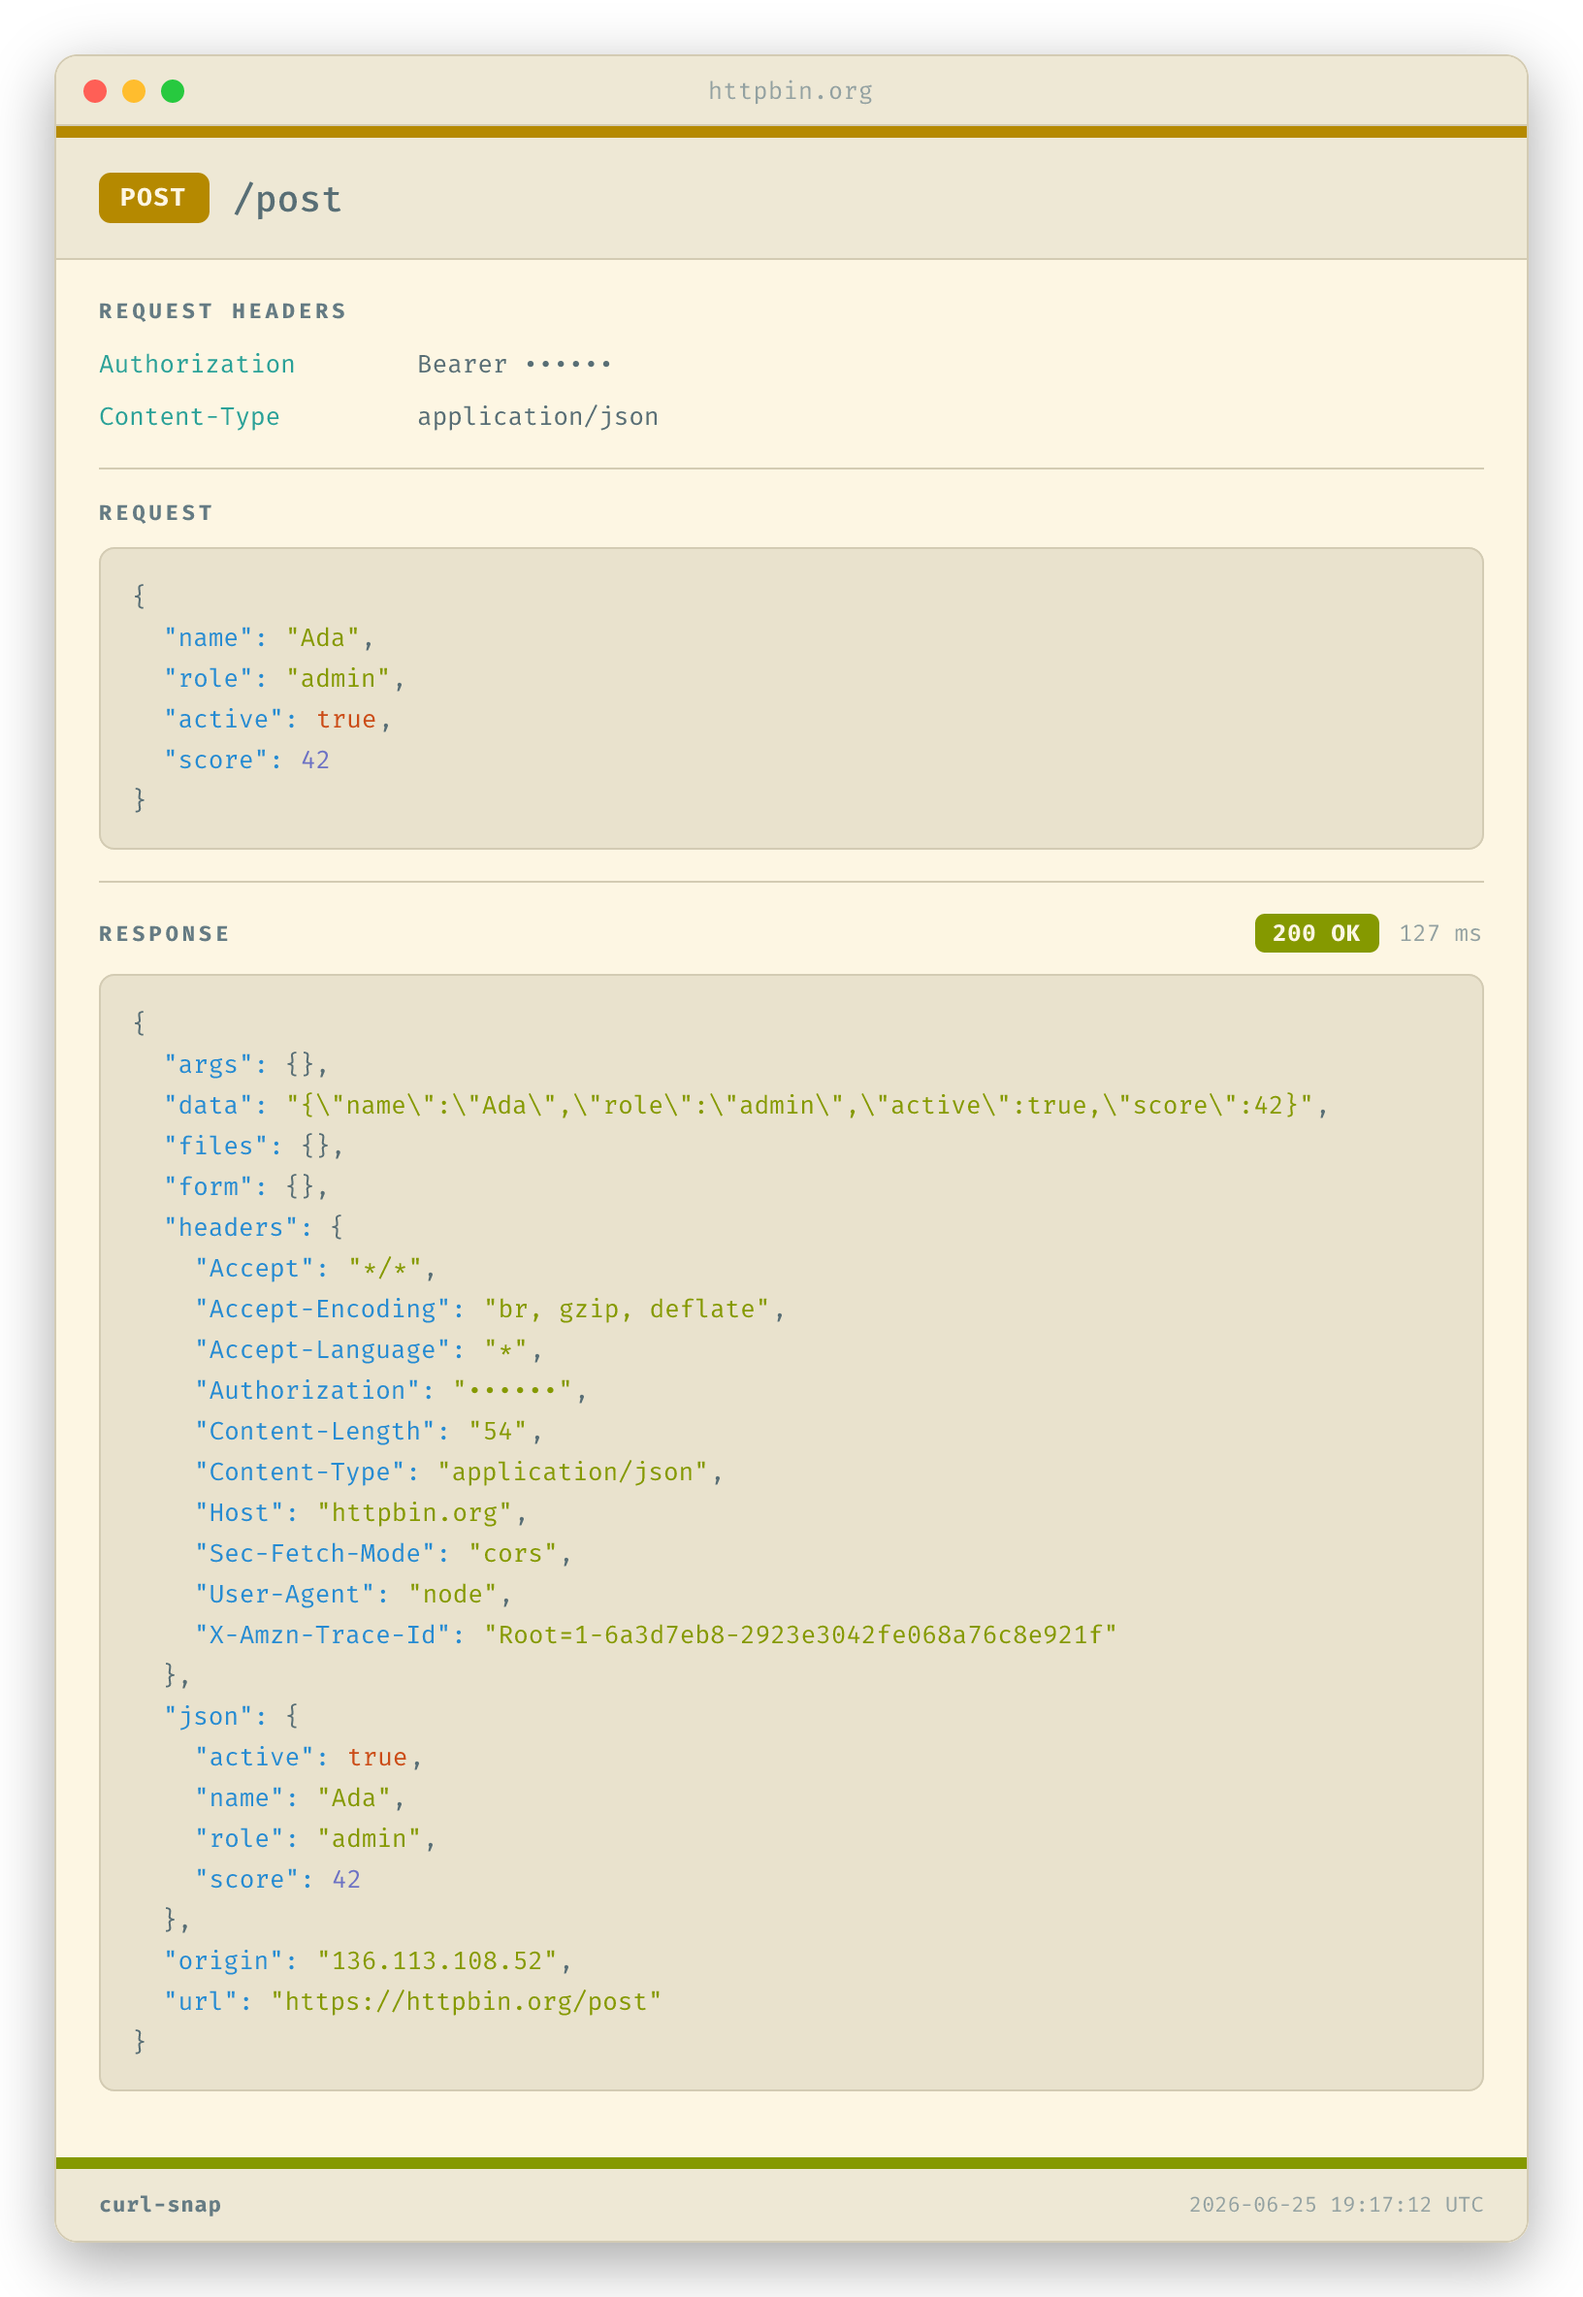
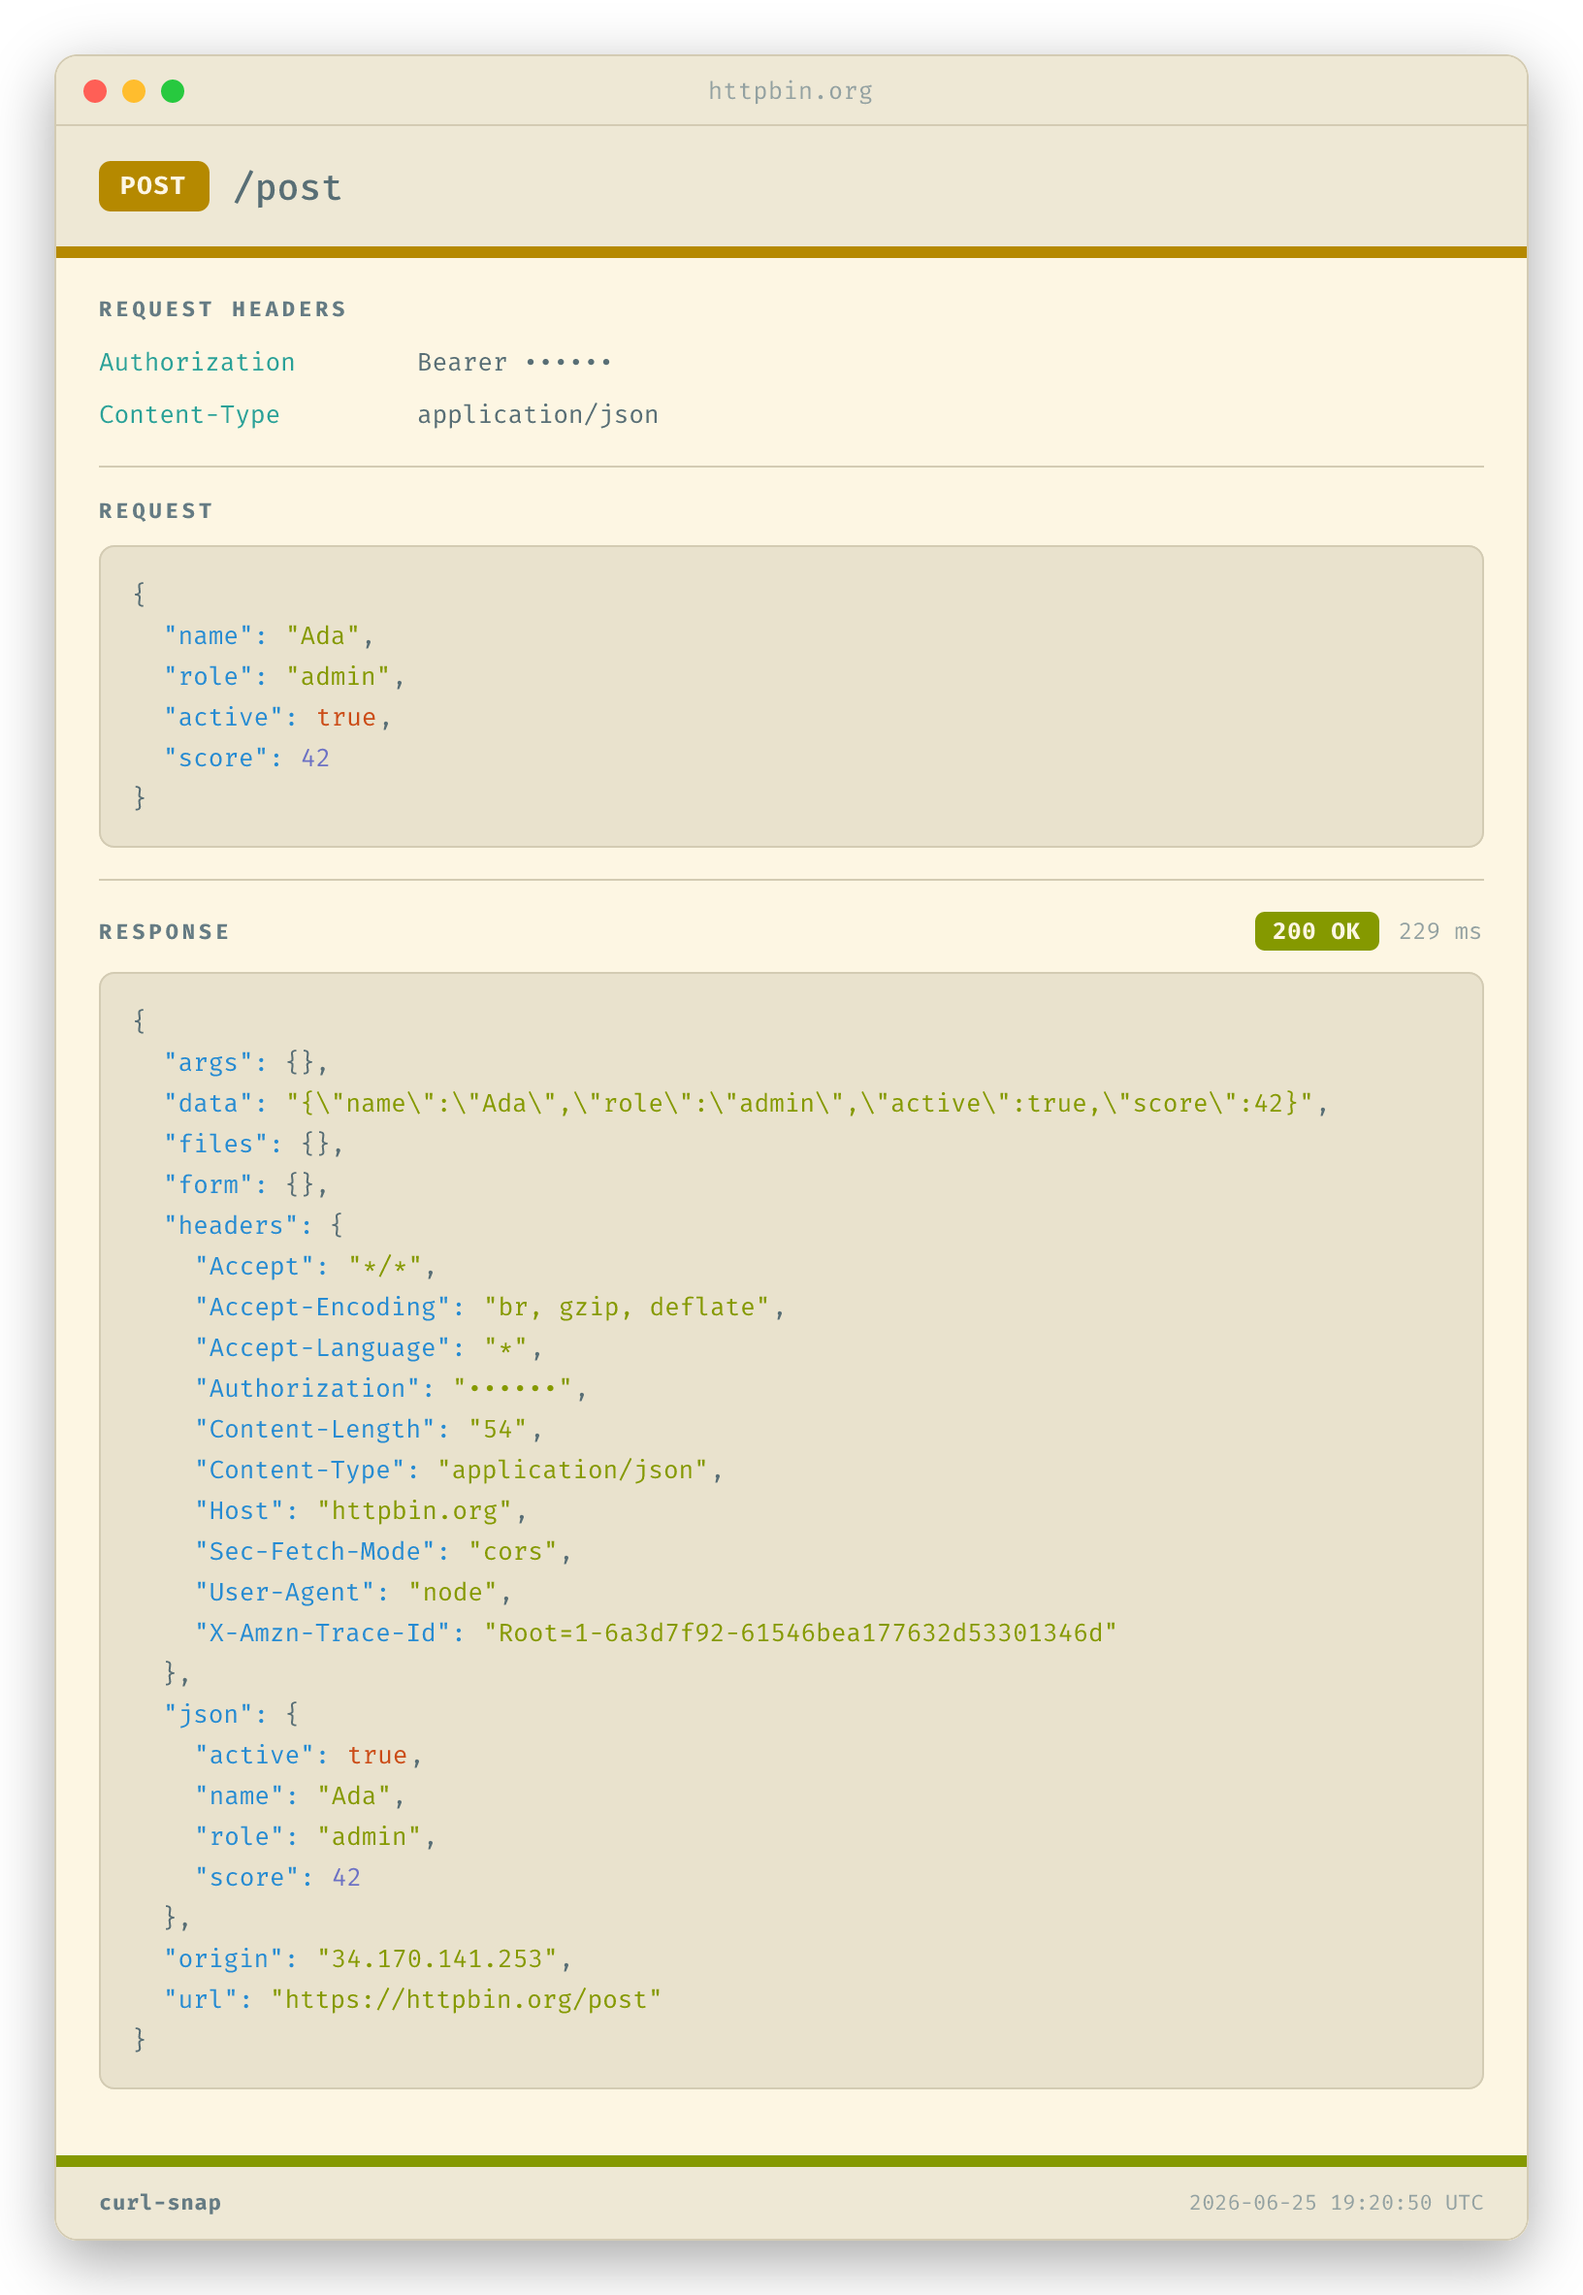
Move the method color bar under the header
Both color bars now bracket the body — the method strip sits under the header
(header's bottom border dropped, the strip is the separator) and the status
strip stays above the footer. Regenerate all samples + the theme gallery.

Claude-Session: https://claude.ai/code/session_01VXh9tr1UUjUUoY5xpw5Vmh

diff --git a/src/template.js b/src/template.js
@@ -397,10 +397,8 @@ export function buildTree(model) {
       boxShadow: '0 10px 30px rgba(0, 0, 0, 0.35)',
     },
     [
-      // Optional window chrome (above the method strip).
+      // Optional window chrome (title bar).
       ...(windowTitle !== null ? [windowBar(windowTitle, theme)] : []),
-      // Top strip (method color).
-      h('div', { display: 'flex', height: 6, width: '100%', backgroundColor: mColor }, []),
       // Header.
       h(
         'div',
@@ -409,7 +407,6 @@ export function buildTree(model) {
           flexDirection: 'column',
           padding: '18px 22px',
           backgroundColor: theme.panel,
-          borderBottom: `1px solid ${theme.border}`,
         },
         [
           h('div', { display: 'flex', alignItems: 'center', gap: 12 }, [
@@ -451,6 +448,9 @@ export function buildTree(model) {
             : []),
         ]
       ),
+      // Top strip (method color) — under the header, bracketing the body with
+      // the status strip below it.
+      h('div', { display: 'flex', height: 6, width: '100%', backgroundColor: mColor }, []),
       // Body (sections).
       h('div', { display: 'flex', flexDirection: 'column', padding: '4px 22px 18px' }, sectionNodes),
       // Bottom strip (status tone color) — sits above the footer so both color

diff --git a/CHANGELOG.md b/CHANGELOG.md
@@ -8,8 +8,9 @@ to [Semantic Versioning](https://semver.org/spec/v2.0.0.html).
 
 ### Changed
 - The window title bar is now **on by default** — pass `--no-window` to remove it.
-- The response status color bar now sits **above the footer**, so both color
-  bars are framed inside the card (the footer is the bottom edge).
+- Reworked the card frame: the method color bar sits under the header and the
+  status color bar sits above the footer, so the two bars **bracket the body**
+  and both are framed inside the card (header and footer are the chrome edges).
 
 ## [2.1.0] - 2026-06-25
 
